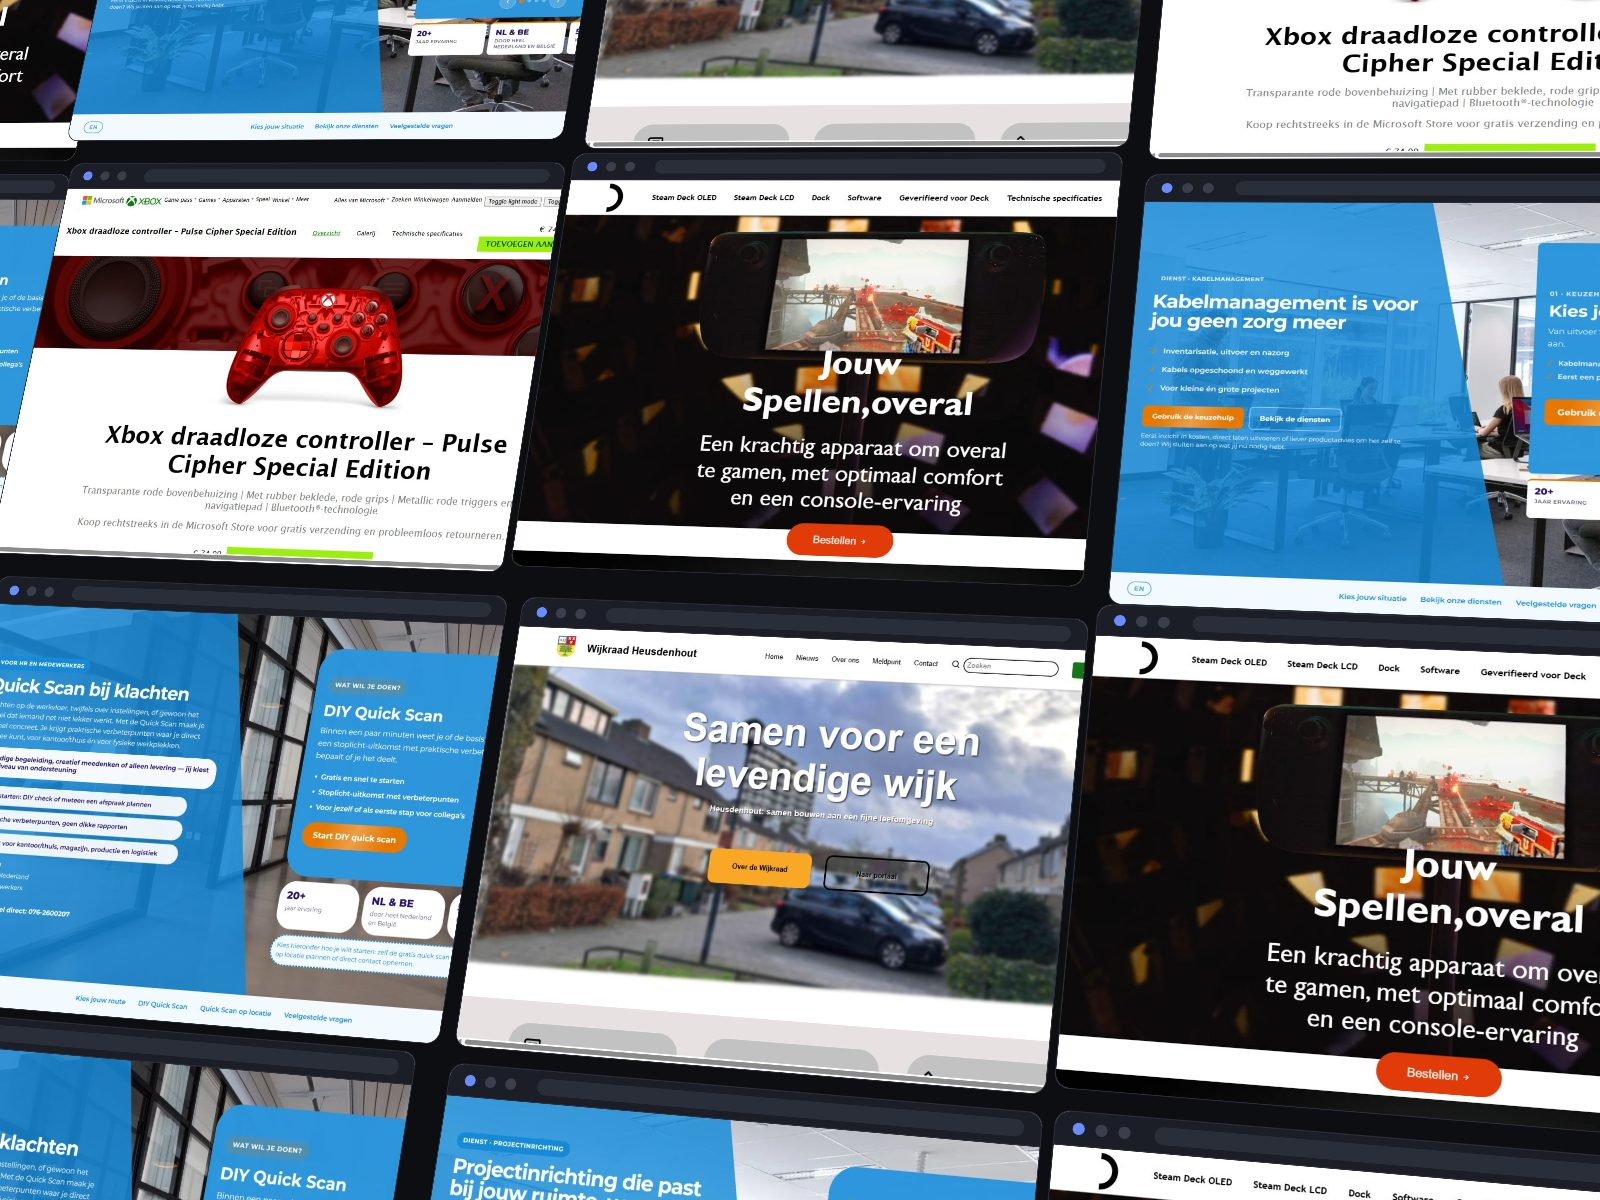
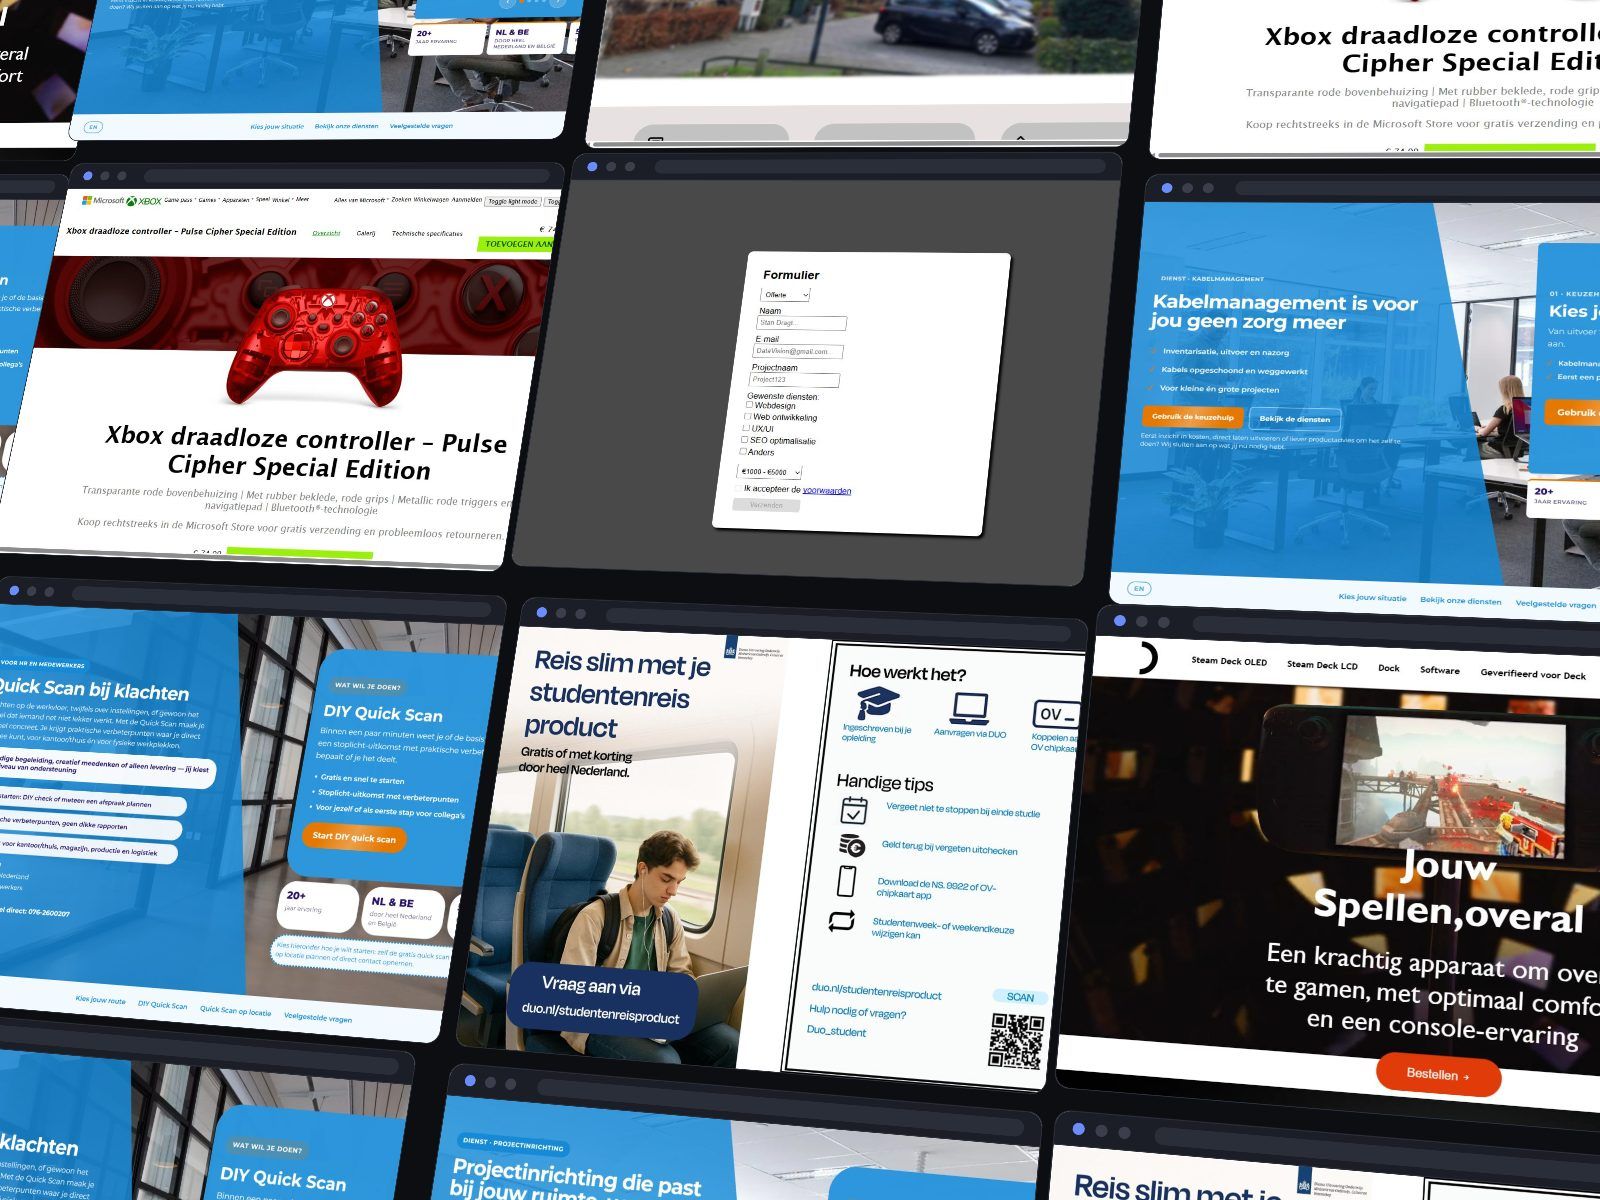
Nieuwe projecten: dynamisch formulier en DUO-flyer; Wijkraad met vijf pagina's in de lightbox; collage vernieuwd

Changed region(s): [[0.2812, 0.5242, 0.6875, 0.925], [0.3125, 0.1233, 0.7188, 0.4933], [0.6562, 0.9558, 1.0, 1.0]]

diff --git a/script.js b/script.js
@@ -39,6 +39,8 @@ const CATEGORY_LABELS = {
 //   thumb       screenshot van de bovenkant, 1280 breed (kaart)
 //   thumbSmall  dezelfde screenshot op 640 breed, voor telefoons. Mag ontbreken.
 //   full        screenshot van de hele pagina (lightbox)
+//   pages       optioneel, voor een site met meerdere pagina's: lijst van
+//               { label, full }. De lightbox krijgt dan knopjes per pagina.
 //   category    sleutel uit CATEGORY_LABELS
 //   url         live adres van de pagina. Leeg = geen "Bekijk live"-knop in de lightbox.
 
@@ -79,10 +81,17 @@ const PROJECTS = [
   {
     title: 'Wijkraad Heusdenhout',
     meta: 'Website · schoolopdracht · 2025',
-    description: 'Website voor een wijkraad met home, nieuws, over ons, meldpunt en contact. Eigen structuur en navigatie over vijf pagina’s.',
+    description: 'Website voor een wijkraad met vijf pagina’s: home, nieuws, over ons, meldpunt en contact. Eigen structuur en navigatie, met een nieuwsoverzicht met filters en een meldformulier in stappen. Bekijk de pagina’s via de knopjes hierboven.',
     thumb: 'images/projects/wijkraad.jpg',
     thumbSmall: 'images/projects/wijkraad-640.jpg',
     full: 'images/projects/wijkraad-full.jpg',
+    pages: [
+      { label: 'Home', full: 'images/projects/wijkraad-full.jpg' },
+      { label: 'Nieuws', full: 'images/projects/wijkraad-nieuws-full.jpg' },
+      { label: 'Over ons', full: 'images/projects/wijkraad-overons-full.jpg' },
+      { label: 'Meldpunt', full: 'images/projects/wijkraad-meldpunt-full.jpg' },
+      { label: 'Contact', full: 'images/projects/wijkraad-contact-full.jpg' }
+    ],
     alt: 'Homepagina van de website voor Wijkraad Heusdenhout',
     category: 'school',
     url: ''
@@ -106,6 +115,28 @@ const PROJECTS = [
     thumbSmall: 'images/projects/xbox-640.jpg',
     full: 'images/projects/xbox-full.jpg',
     alt: 'Xbox controller productpagina',
+    category: 'school',
+    url: ''
+  },
+  {
+    title: 'Dynamisch formulier',
+    meta: 'JavaScript · schoolopdracht · 2025',
+    description: 'Formulier dat zich aanpast aan je keuze: persoonlijk, bedrijf of offerte. Velden verschijnen pas als ze nodig zijn en de verzendknop werkt pas als alles is ingevuld. Gebouwd met JavaScript, zonder bibliotheken.',
+    thumb: 'images/projects/formulier.jpg',
+    thumbSmall: 'images/projects/formulier-640.jpg',
+    full: 'images/projects/formulier-full.jpg',
+    alt: 'Dynamisch formulier met keuze tussen persoonlijk, bedrijf en offerte',
+    category: 'school',
+    url: ''
+  },
+  {
+    title: 'Flyer studentenreisproduct',
+    meta: 'Flyer · print · schoolopdracht · 2025',
+    description: 'Voor- en achterkant van een flyer over het studentenreisproduct van DUO: een kop met foto, een stappenplan met iconen, tips en een QR-code. Schoolopdracht, niet gemaakt in opdracht van DUO.',
+    thumb: 'images/projects/duo-flyer.jpg',
+    thumbSmall: 'images/projects/duo-flyer-640.jpg',
+    full: 'images/projects/duo-flyer-full.jpg',
+    alt: 'Flyer over het studentenreisproduct van DUO, voor- en achterkant naast elkaar',
     category: 'school',
     url: ''
   }
@@ -386,8 +417,33 @@ function initLightbox() {
   const image = document.getElementById('lightbox-image');
   const scroller = document.getElementById('lightbox-scroll');
   const live = document.getElementById('lightbox-live');
+  const pagesBar = document.getElementById('lightbox-pages');
   let current = 0;
   let lastTrigger = null;
+
+  // Knopjes voor projecten met meerdere pagina's (veld `pages`).
+  function renderPages(p) {
+    if (!pagesBar) return;
+    pagesBar.innerHTML = '';
+    const pages = Array.isArray(p.pages) && p.pages.length > 1 ? p.pages : null;
+    pagesBar.hidden = !pages;
+    if (!pages) return;
+    pages.forEach((pg, i) => {
+      const b = document.createElement('button');
+      b.type = 'button';
+      b.className = 'filter filter--dark';
+      b.textContent = pg.label;
+      b.setAttribute('aria-pressed', String(i === 0));
+      b.addEventListener('click', () => {
+        pagesBar.querySelectorAll('.filter').forEach((x) => x.setAttribute('aria-pressed', 'false'));
+        b.setAttribute('aria-pressed', 'true');
+        image.src = pg.full;
+        image.alt = `Pagina ${pg.label}: ${p.alt}`;
+        scroller.scrollTop = 0;
+      });
+      pagesBar.appendChild(b);
+    });
+  }
 
   function show(index) {
     const total = activeProjects.length;
@@ -397,7 +453,8 @@ function initLightbox() {
     meta.textContent = `${p.meta} · scroll om de hele pagina te zien`;
     counter.textContent = `${pad(current + 1)} / ${pad(total)}`;
     description.textContent = p.description;
-    image.src = p.full;
+    renderPages(p);
+    image.src = p.pages && p.pages.length ? p.pages[0].full : p.full;
     image.alt = `Volledige pagina: ${p.alt}`;
     scroller.scrollTop = 0;
     // Knop naar de echte pagina, alleen als er een adres is ingevuld.

diff --git a/index.html b/index.html
@@ -13,7 +13,7 @@
   <meta property="og:url" content="https://standemanonoman.github.io/portfolio-2026/">
   <meta property="og:title" content="Stan Dragt · Allround mediamaker">
   <meta property="og:description" content="Portfolio van Stan Dragt uit Breda. Websites en visuals die er goed uitzien en gewoon werken.">
-  <meta property="og:image" content="https://standemanonoman.github.io/portfolio-2026/images/hero.jpg">
+  <meta property="og:image" content="https://standemanonoman.github.io/portfolio-2026/images/hero.jpg?v=4">
   <meta property="og:locale" content="nl_NL">
   <meta name="twitter:card" content="summary_large_image">
   <!-- Gestructureerde gegevens: zo herkent Google deze pagina als jouw persoonlijke site. -->
@@ -32,7 +32,7 @@
   <link rel="preconnect" href="https://fonts.googleapis.com">
   <link rel="preconnect" href="https://fonts.gstatic.com" crossorigin>
   <link href="https://fonts.googleapis.com/css2?family=Bricolage+Grotesque:opsz,wght@12..96,400;12..96,500;12..96,600&family=Instrument+Sans:wght@400;500;600&display=swap" rel="stylesheet">
-  <link rel="stylesheet" href="style.css?v=33">
+  <link rel="stylesheet" href="style.css?v=34">
   <!-- Draait vóór het tekenen van de pagina: zet de klasse "js" en kiest licht of
        donker. Een eerder gekozen weergave (knop in de header) gaat vóór de
        systeeminstelling. -->
@@ -103,10 +103,10 @@
           <picture>
             <!-- Donkere versie van de collage. Het scriptje hieronder zet hem aan of uit
                  op basis van de gekozen weergave, nog voordat de browser het plaatje kiest. -->
-            <source id="hero-dark-source" srcset="images/hero-dark-800.jpg?v=1 800w, images/hero-dark.jpg?v=1 1600w" sizes="(max-width: 800px) 100vw, 62vw" media="not all">
+            <source id="hero-dark-source" srcset="images/hero-dark-800.jpg?v=2 800w, images/hero-dark.jpg?v=2 1600w" sizes="(max-width: 800px) 100vw, 62vw" media="not all">
             <script>document.getElementById('hero-dark-source').media = document.documentElement.dataset.theme === 'dark' ? 'all' : 'not all';</script>
             <!-- Twee formaten: telefoons krijgen de kleine versie, grotere schermen de volledige. -->
-            <img src="images/hero.jpg?v=3" srcset="images/hero-800.jpg?v=1 800w, images/hero.jpg?v=3 1600w" sizes="(max-width: 800px) 100vw, 62vw" alt="Collage van websites die Stan Dragt heeft gebouwd, als schuin gekantelde browservensters" width="1600" height="1200" fetchpriority="high">
+            <img src="images/hero.jpg?v=4" srcset="images/hero-800.jpg?v=2 800w, images/hero.jpg?v=4 1600w" sizes="(max-width: 800px) 100vw, 62vw" alt="Collage van websites die Stan Dragt heeft gebouwd, als schuin gekantelde browservensters" width="1600" height="1200" fetchpriority="high">
           </picture>
         </div>
       </div>
@@ -148,7 +148,7 @@
         <div class="werk-bar">
           <div class="filters" id="filters" role="group" aria-label="Filter op soort werk"></div>
           <div class="carousel-controls">
-            <span class="counter" id="carousel-counter" aria-live="polite">01 / 06</span>
+            <span class="counter" id="carousel-counter" aria-live="polite">01 / 08</span>
             <button class="icon-button icon-button--small" type="button" id="carousel-prev" aria-label="Vorige projecten">
               <svg class="icon" width="16" height="16" viewBox="0 0 16 16" aria-hidden="true"><path d="M13 8H3M7 4L3 8l4 4"/></svg>
             </button>
@@ -263,12 +263,14 @@
           <p class="lightbox-meta" id="lightbox-meta"></p>
         </div>
         <div class="lightbox-actions">
-          <span class="counter" id="lightbox-counter">01 / 06</span>
+          <span class="counter" id="lightbox-counter">01 / 08</span>
           <button class="icon-button icon-button--dark" type="button" id="lightbox-close" aria-label="Sluiten">
             <svg class="icon" width="18" height="18" viewBox="0 0 16 16" aria-hidden="true"><path d="M4 4l8 8M12 4l-8 8"/></svg>
           </button>
         </div>
       </div>
+      <!-- Alleen zichtbaar bij projecten met meerdere pagina's (veld `pages` in script.js). -->
+      <div class="lightbox-pages" id="lightbox-pages" role="group" aria-label="Pagina's van dit project" hidden></div>
       <div class="lightbox-body">
         <button class="icon-button icon-button--dark lightbox-nav" type="button" id="lightbox-prev" aria-label="Vorig project">
           <svg class="icon" width="20" height="20" viewBox="0 0 16 16" aria-hidden="true"><path d="M13 8H3M7 4L3 8l4 4"/></svg>
@@ -294,6 +296,6 @@
     <svg class="icon" width="18" height="18" viewBox="0 0 16 16" aria-hidden="true"><path d="M8 13V3M4 7l4-4 4 4"/></svg>
   </button>
 
-  <script src="script.js?v=21" defer></script>
+  <script src="script.js?v=22" defer></script>
 </body>
 </html>

diff --git a/images/hero-src/hero.html b/images/hero-src/hero.html
@@ -40,19 +40,19 @@
       <div class="win"><div class="bar"><span class="dot accent"></span><span class="dot"></span><span class="dot"></span><span class="url"></span></div><img src="../projects/projectinrichting.jpg" alt=""></div>
       <div class="win"><div class="bar"><span class="dot accent"></span><span class="dot"></span><span class="dot"></span><span class="url"></span></div><img src="../projects/quickscan.jpg" alt=""></div>
       <div class="win"><div class="bar"><span class="dot accent"></span><span class="dot"></span><span class="dot"></span><span class="url"></span></div><img src="../projects/xbox.jpg" alt=""></div>
-      <div class="win"><div class="bar"><span class="dot accent"></span><span class="dot"></span><span class="dot"></span><span class="url"></span></div><img src="../projects/steamdeck.jpg" alt=""></div>
+      <div class="win"><div class="bar"><span class="dot accent"></span><span class="dot"></span><span class="dot"></span><span class="url"></span></div><img src="../projects/formulier.jpg" alt=""></div>
       <div class="win"><div class="bar"><span class="dot accent"></span><span class="dot"></span><span class="dot"></span><span class="url"></span></div><img src="../projects/kabelmanagement.jpg" alt=""></div>
       <div class="win"><div class="bar"><span class="dot accent"></span><span class="dot"></span><span class="dot"></span><span class="url"></span></div><img src="../projects/wijkraad.jpg" alt=""></div>
       <div class="win"><div class="bar"><span class="dot accent"></span><span class="dot"></span><span class="dot"></span><span class="url"></span></div><img src="../projects/projectinrichting.jpg" alt=""></div>
       <div class="win"><div class="bar"><span class="dot accent"></span><span class="dot"></span><span class="dot"></span><span class="url"></span></div><img src="../projects/quickscan.jpg" alt=""></div>
-      <div class="win"><div class="bar"><span class="dot accent"></span><span class="dot"></span><span class="dot"></span><span class="url"></span></div><img src="../projects/wijkraad.jpg" alt=""></div>
+      <div class="win"><div class="bar"><span class="dot accent"></span><span class="dot"></span><span class="dot"></span><span class="url"></span></div><img src="../projects/duo-flyer.jpg" alt=""></div>
       <div class="win"><div class="bar"><span class="dot accent"></span><span class="dot"></span><span class="dot"></span><span class="url"></span></div><img src="../projects/steamdeck.jpg" alt=""></div>
       <div class="win"><div class="bar"><span class="dot accent"></span><span class="dot"></span><span class="dot"></span><span class="url"></span></div><img src="../projects/xbox.jpg" alt=""></div>
       <div class="win"><div class="bar"><span class="dot accent"></span><span class="dot"></span><span class="dot"></span><span class="url"></span></div><img src="../projects/kabelmanagement.jpg" alt=""></div>
       <div class="win"><div class="bar"><span class="dot accent"></span><span class="dot"></span><span class="dot"></span><span class="url"></span></div><img src="../projects/quickscan.jpg" alt=""></div>
       <div class="win"><div class="bar"><span class="dot accent"></span><span class="dot"></span><span class="dot"></span><span class="url"></span></div><img src="../projects/projectinrichting.jpg" alt=""></div>
-      <div class="win"><div class="bar"><span class="dot accent"></span><span class="dot"></span><span class="dot"></span><span class="url"></span></div><img src="../projects/steamdeck.jpg" alt=""></div>
-      <div class="win"><div class="bar"><span class="dot accent"></span><span class="dot"></span><span class="dot"></span><span class="url"></span></div><img src="../projects/wijkraad.jpg" alt=""></div>
+      <div class="win"><div class="bar"><span class="dot accent"></span><span class="dot"></span><span class="dot"></span><span class="url"></span></div><img src="../projects/duo-flyer.jpg" alt=""></div>
+      <div class="win"><div class="bar"><span class="dot accent"></span><span class="dot"></span><span class="dot"></span><span class="url"></span></div><img src="../projects/formulier.jpg" alt=""></div>
     </div>
   </div>
 </body>

diff --git a/style.css b/style.css
@@ -370,6 +370,10 @@ ul { margin: 0; padding: 0; list-style: none; }
 .lightbox-meta { margin: 4px 0 0; font-size: 13px; color: var(--dark-muted); }
 .lightbox-actions { display: flex; align-items: center; gap: 16px; }
 .lightbox-actions .counter, .lightbox .counter { color: var(--dark-muted); }
+.lightbox-pages { display: flex; flex-wrap: wrap; gap: 8px; padding: 0 72px; margin-top: -8px; }
+.filter--dark { border-color: var(--dark-line); color: var(--dark-text); }
+.filter--dark:hover { border-color: var(--on-dark); color: var(--on-dark); }
+.filter--dark[aria-pressed="true"] { background: var(--on-dark); border-color: var(--on-dark); color: var(--dark); }
 .lightbox-body { position: relative; flex: 1 1 auto; min-height: 0; display: flex; align-items: stretch; gap: 20px; }
 .lightbox-nav { width: 52px; height: 52px; align-self: center; flex-shrink: 0; }
 .lightbox-scroll {
@@ -431,6 +435,7 @@ ul { margin: 0; padding: 0; list-style: none; }
   #lightbox-prev { left: 12px; }
   #lightbox-next { right: 12px; }
   .lightbox-foot { padding: 0 60px; flex-direction: column; align-items: flex-start; gap: 12px; }
+  .lightbox-pages { padding: 0; margin-top: -4px; }
   .lightbox-description { font-size: 14px; }
   .lightbox-title { font-size: 20px; }
 
@@ -538,9 +543,9 @@ ul { margin: 0; padding: 0; list-style: none; }
 }
 .js .lightbox[open]::backdrop { animation: fade-in 0.5s ease-out; }
 .js .lightbox.is-closing::backdrop { animation: fade-out 0.7s ease-in-out forwards; }
-.js .lightbox-head, .js .lightbox-foot, .js .lightbox-nav { transition: opacity 0.35s ease-out 0.4s; }
-.js .lightbox.is-opening .lightbox-head, .js .lightbox.is-opening .lightbox-foot, .js .lightbox.is-opening .lightbox-nav { opacity: 0; transition: none; }
-.js .lightbox.is-closing .lightbox-head, .js .lightbox.is-closing .lightbox-foot, .js .lightbox.is-closing .lightbox-nav { opacity: 0; transition: opacity 0.35s ease-out; }
+.js .lightbox-head, .js .lightbox-pages, .js .lightbox-foot, .js .lightbox-nav { transition: opacity 0.35s ease-out 0.4s; }
+.js .lightbox.is-opening .lightbox-head, .js .lightbox.is-opening .lightbox-pages, .js .lightbox.is-opening .lightbox-foot, .js .lightbox.is-opening .lightbox-nav { opacity: 0; transition: none; }
+.js .lightbox.is-closing .lightbox-head, .js .lightbox.is-closing .lightbox-pages, .js .lightbox.is-closing .lightbox-foot, .js .lightbox.is-closing .lightbox-nav { opacity: 0; transition: opacity 0.35s ease-out; }
 
 /* Direct tonen, zonder overgang: voor onderdelen die al boven het scherm liggen. */
 .js .reveal--instant, .js .reveal--instant .reveal, .js .reveal--instant .bar-fill { transition: none !important; }

diff --git a/NOTITIES.md b/NOTITIES.md
@@ -67,6 +67,12 @@ meer nodig hebt.
    - volledige pagina (voor de lightbox): `images/projects/naam-full.jpg`
    - optioneel een kleine versie van de bovenkant op 640 breed: `images/projects/naam-640.jpg`
      (veld `thumbSmall`; telefoons laden dan minder). Laat het veld weg als je die niet maakt.
+   Heeft de site meerdere pagina's? Maak dan per pagina een volledige screenshot en zet ze
+   in het veld `pages` (zie Wijkraad Heusdenhout in `script.js`). De lightbox krijgt dan
+   knopjes per pagina.
+   Is het geen website maar bijvoorbeeld een flyer of poster? Exporteer hem als afbeelding
+   (JPG, minstens 1280 breed) en gebruik die als `thumb` en `full`. De flyer voor DUO is zo
+   gedaan (uit de PDF gerenderd).
 2. Voeg in `script.js` een blok toe aan de lijst `PROJECTS` (kopieer een bestaand blok).
    Kies bij `category` een sleutel uit `CATEGORY_LABELS` (`stage`, `school`, `eigen`).
    De filterknoppen boven de carrousel volgen vanzelf: een categorie die niet gebruikt
